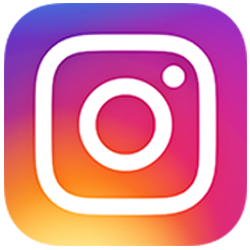
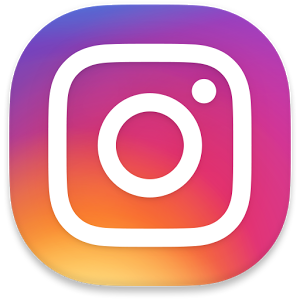
added less quality images

diff --git a/register.html b/register.html
@@ -24,7 +24,7 @@
                     <div class="input-field col s12">
                         <select id="workshop">
                           <option value="ETH" style="color:#000" selected>Ethical Hacking</option>
-                          <option value="IBM" style="color:#000" >Machine Learning</option>
+                          <option value="ML" style="color:#000" >Machine Learning</option>
                         </select>
                         <label>Workshop</label>
                       </div>
@@ -37,7 +37,7 @@
                   </div>
                   <div class="row">
                     <div class="input-field form-control col s12 l12 m12">
-                      <input id="phoneNo" type="number" max="10" class="validate" required>
+                      <input id="phoneNo" type="number" max="9999999999" class="validate" required>
                       <label for="phoneNo"><i class="material-icons">phone</i>Phone</label>
                     </div>
                   </div>
@@ -50,7 +50,6 @@
                   <div class="row">
                       <div class="input-field col s12">
                           <select id="paymentMode">
-
                             <option onclick="popPaytm()" value="paytm" style="color:#000" selected>Paytm</option>
                             <option onclick="popPhonePe()" value="phonePe" style="color:#000" >Phone Pe</option>
                             <option onclick="popTez()" value="tez" style="color:#000" >Google Tez</option>
@@ -59,12 +58,11 @@
                           <img onclick="popPhonePe()" id="phonePePopUp" class="imgBorder wow slideInUp" data-wow-delay="0.2s" src="./img/phonePe.png" alt="">
                           <img onclick="popTez()" id="tezPopUp" class="imgBorder wow slideInUp" data-wow-delay="0.4s"  src="./img/tez.png" alt="">
                           <img onclick="popPaytm()" id="paytmPopUp" class="imgBorder wow slideInUp" data-wow-delay="0.6s"src="./img/paytm.png" alt="">
-
                         </div>
                   </div>
                   <div class="row">
                     <div class="input-field col s12 m12 l12">
-                      <input id="trId" type="email" class="validate" required>
+                      <input id="trId" type="text" class="validate" required>
                       <label for="trId" data-error="" data-success="" required><i class="material-icons">payment</i>Transaction Id</label>
                     </div>
                   </div> 
@@ -89,8 +87,8 @@
     <div class="container">
       <h2>List Of Attendees</h2>
      <p>Total number of attendees <b> {{totalAttendees}}</b> </p>  <br>
-      <p>Ethical Hacker Attendees <b>{{ehAttendees}}</b> </p>  <br>
-      <p> Ibm Attendees <b>{{ibmAttendees}}</b> </p> 
+      <p>Ethical Hacking Attendees <b>{{ehAttendees}}</b> </p>  <br>
+      <p> Machine Learning Attendees <b>{{mlAttendees}}</b> </p> 
       <div class="row">
         <div class=" input-field  col s5 l3 m3 offset-s7 offset-m9 offset-l9">
           <input name="search" style="color:#000" ng-model="search" type="text">
@@ -101,18 +99,20 @@
             <thead>
               <tr>
                   <th>Name</th>
-                  <th>Email</th>
                   <th>Workshop</th>
+                  <th>Transaction ID</th>
                   <th>Payment Status</th>
+                  <th>Registration ID</th>
               </tr>
             </thead>
             <tbody>
               <tr ng-repeat ="user in data | filter : search">
-                <td>{{user.name}}</td>
-                <td>{{user.email}}</td>
+                <td>{{user.name}}</td>                
                 <td>{{user.workshop}}</td>
+                <td>{{user.trId}}</td>
                 <td ng-if="user.status">verified</td>
                 <td ng-if="!user.status">Pending....</td>
+                <td >{{user.RegId}}</td>
               </tr>
             </tbody>
           </table>

diff --git a/index.html b/index.html
@@ -73,7 +73,7 @@
             </div>   
     <div class="display">
     <div class="fixed-action-btn  ">
-        <a class="btn-floating btn-large teal ">
+        <a class="btn-floating btn-large grey darken-3 ">
                   <i class="large material-icons wow swing" data-wow-iteration="infinite">access_time</i>
                 </a>
         <ul>
@@ -106,7 +106,7 @@
             <div class="header-bottom">
                 <h1 class="wow pulse adjust-head" data-wow-delay="1.5s" data-wow-iteration="infinite" style="font-family: 'Kaushan Script', cursive;display:inline-bloc">ITYUKTA 2K18</h1>
                 <p class="long-copy line-1 anim-typwriter">Lorem ipsum dolor sit, amet consectetur adipisicing elit. At doloremque, quo accusamus dolore a in velit magni corrupti corporis eum.</p>
-                <a href="register.html" class="btn adjust wow pulse" data-wow-delay="1.4s">Register</a>
+                <a href="register.html" class="btn btn-large adjust wow pulse grey darken-1" data-wow-delay="1.4s" ><b>Register</b></a>
             </div>
         </div>
     </header>
@@ -144,7 +144,7 @@
                 <div class="col s12 m6">
                     <div class="card">
                         <div class="card-image">
-                            <img src="./img/expo.jpeg">
+                            <img src="./img/expo.png">
                             <span class="card-title" style="color:#fff;font-weight:800">Project Exhibition</span>
                             <a href="#knowMore" class="btn-floating btn-large halfway-fab waves-effect waves-light teal modal-trigger"><i class="material-icons">format_align_justify
                                 </i></a>
@@ -324,7 +324,7 @@
                                     <p class="event-2">Are you looking for a perfect platform where you can present your attractive and creative web pages?? Then this would be the best opportunity you can grab! In this event,you have to design your own webpages based on a given theme beforehand and present them in our technical fest.The most attractive and the best webpage will be awarded.(THEME WILL BE ANNOUNCED SOON).</p>
                                 </div>
                                 <div class="col s12 m12 l3">
-                                    <img style="border-radius:4px;" class="responsive-img event-2" style="width:600px;" src="./img/webDesign.png" alt="">
+                                    <img style="border-radius:4px;" class="responsive-img event-2" style="width:600px;" src="./img/webDesign.jpg" alt="">
                                 </div>
                             </div>
                         </div>
@@ -404,7 +404,7 @@
                                     <p class="event-2">Quiz...hmm..As you all know knowledge is just like an ocean which has no limit.Here, we come up with an event to examine your general knowledge. So,just try this out and bring out the best in you and expel out your general knowledge skills. You will be given questions about general knowledge and aptitude. All you need to answer them within the specified time. The one who answers the most is the winner</p>
                                 </div>
                                 <div class="col s12 m12 l3">
-                                    <img class="responsive-img event-2" style="width:600px;border-radius:4px;" src="./img/quiz.jpg" alt="">
+                                    <img class="responsive-img event-2" style="width:600px;border-radius:4px;" src="./img/quiz.png" alt="">
                                 </div>
                             </div>
                         </div>
@@ -605,9 +605,6 @@
                 map: map
             });
         }
-
     </script>
   </body>
 </html>
-
-

diff --git a/js/app.js b/js/app.js
@@ -11,8 +11,6 @@
   firebase.initializeApp(config);
   //reference messages collection
   var user = firebase.database().ref('users');
-
-
   //Listen for Form Details
 document.getElementById('registerFormItyukta').addEventListener('submit' , submitForm);
 //Submit Form
@@ -24,34 +22,36 @@ function submitForm(e){
     var email = getInputVal('email');
     var workshop = getInputVal('workshop');
     var mode = getInputVal('paymentMode');
-    
-    saveMessage(name , email , phone, false , workshop);
+    var trId = getInputVal('trId');
+    saveMessage(name , email , phone, false , workshop , mode , trId , workshop);
 
 
     //Show Alert
     document.querySelector('.alert').style.display = 'block';
-
+    var countForEth = 0;
+    var countForMl = 0;
     setTimeout(function(){
         document.querySelector('.alert').style.display = 'none';
         window.location="/register.html";
-    },3000);  
+    },4000);  
 }
 
 //Function to get Form Values
 function getInputVal(id){
     return document.getElementById(id).value;
 }
-
 //Save messges to database
-
-function saveMessage(name , email , phone, status, workshop){
+function saveMessage(name , email , phone, status, workshop, mode , trId , RegId){
     var newMessageRef = user.push();
     newMessageRef.set({
         name:name,
         email:email,
         phone:phone,
         status,
-        workshop: workshop
+        workshop: workshop,
+        trId:trId,
+        mode:mode,
+        RegId:'IT_'+RegId+'_'
     });
 }
 var app = angular.module("register", ["firebase"]); 
@@ -69,13 +69,18 @@ app.controller("registerController", function($scope, $firebaseArray) {
     $scope.data.$loaded().then(function() {
         $scope.totalAttendees=$scope.data.length
         $scope.ehAttendees=0
-        $scope.ibmAttendees=0;
+        $scope.mlAttendees=0;
+        
          // To iterate the key/value pairs of the object, use angular.forEach()
        angular.forEach($scope.data, function(value, key) {
-            if(value.workshop == 'ETH' && value.status)
-            $scope.ehAttendees++
-          if(value.workshop == 'IBM' && value.status)
-            $scope.ibmAttendees++
+            if(value.workshop == 'ETH' && value.status){
+                $scope.ehAttendees++;
+                countForEth++;
+            }
+           
+          if(value.workshop == 'ML' && value.status)
+            $scope.mlAttendees++
+            countForMl++;
        });
      });
 });

diff --git a/css/style.css b/css/style.css
@@ -139,7 +139,7 @@ h2:after {
 /*Section Workshops */
 
 .section-workshops {
-    background-image: linear-gradient(rgba(0, 0, 0, 0.8), rgba(0, 0, 0, 0.5)), url('../img/workshops.jpg');
+    background-image: linear-gradient(rgba(0, 0, 0, 0.8), rgba(0, 0, 0, 0.5)), url('../img/workshop_3.jpg');
     background-size: cover;
     color: white;
     background-attachment: fixed;
@@ -156,7 +156,7 @@ h2:after {
 /* Cultural Night */
 
 .cultural-section {
-    background-image: linear-gradient(rgba(0, 0, 0, 0.8), rgba(0, 0, 0, 0.3)), url('../img/culturals.jpg');
+    background-image: linear-gradient(rgba(0, 0, 0, 0.8), rgba(0, 0, 0, 0.3)), url('../img/cultural.jpg');
     background-size: cover;
     color: white;
     background-attachment: fixed;
@@ -216,7 +216,7 @@ h2:after {
     position:absolute;
     top:0;
     left:0;
-    background:teal;
+    background:#222222;
     opacity: 0.55;
 }
 .header-content{
@@ -261,12 +261,11 @@ h2:after {
 } 
 
 .registerForm {
-    background-image: linear-gradient(rgba(0, 0, 0, 0.8), rgba(0, 0, 0, 0.3)), url('../img/register.jpg');
+    background-image: linear-gradient(rgba(0, 0, 0, 0.8), rgba(0, 0, 0, 0.3)), url('../img/registerFinal.jpg');
     background-size: cover;
     color: white;
     background-attachment: fixed;
 }
-
 .registerForm label,input{
     font-weight: bolder;
     color: #fff;
